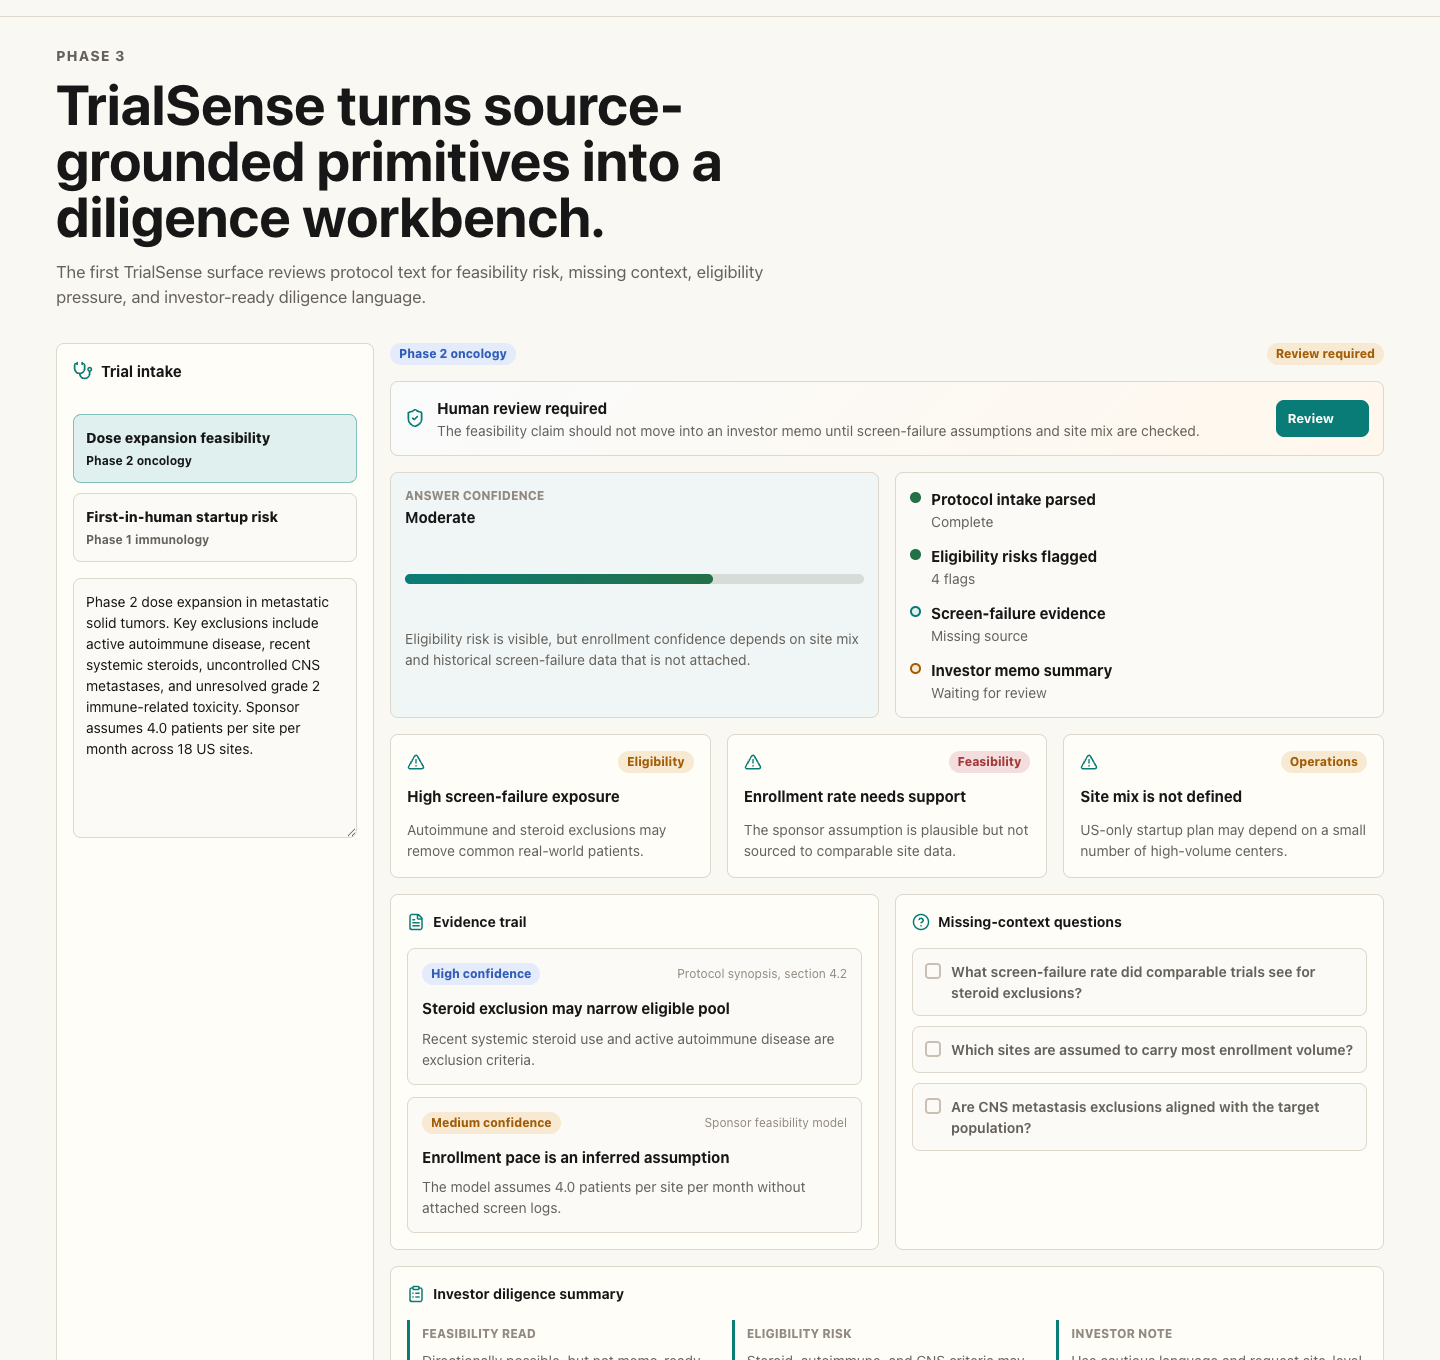
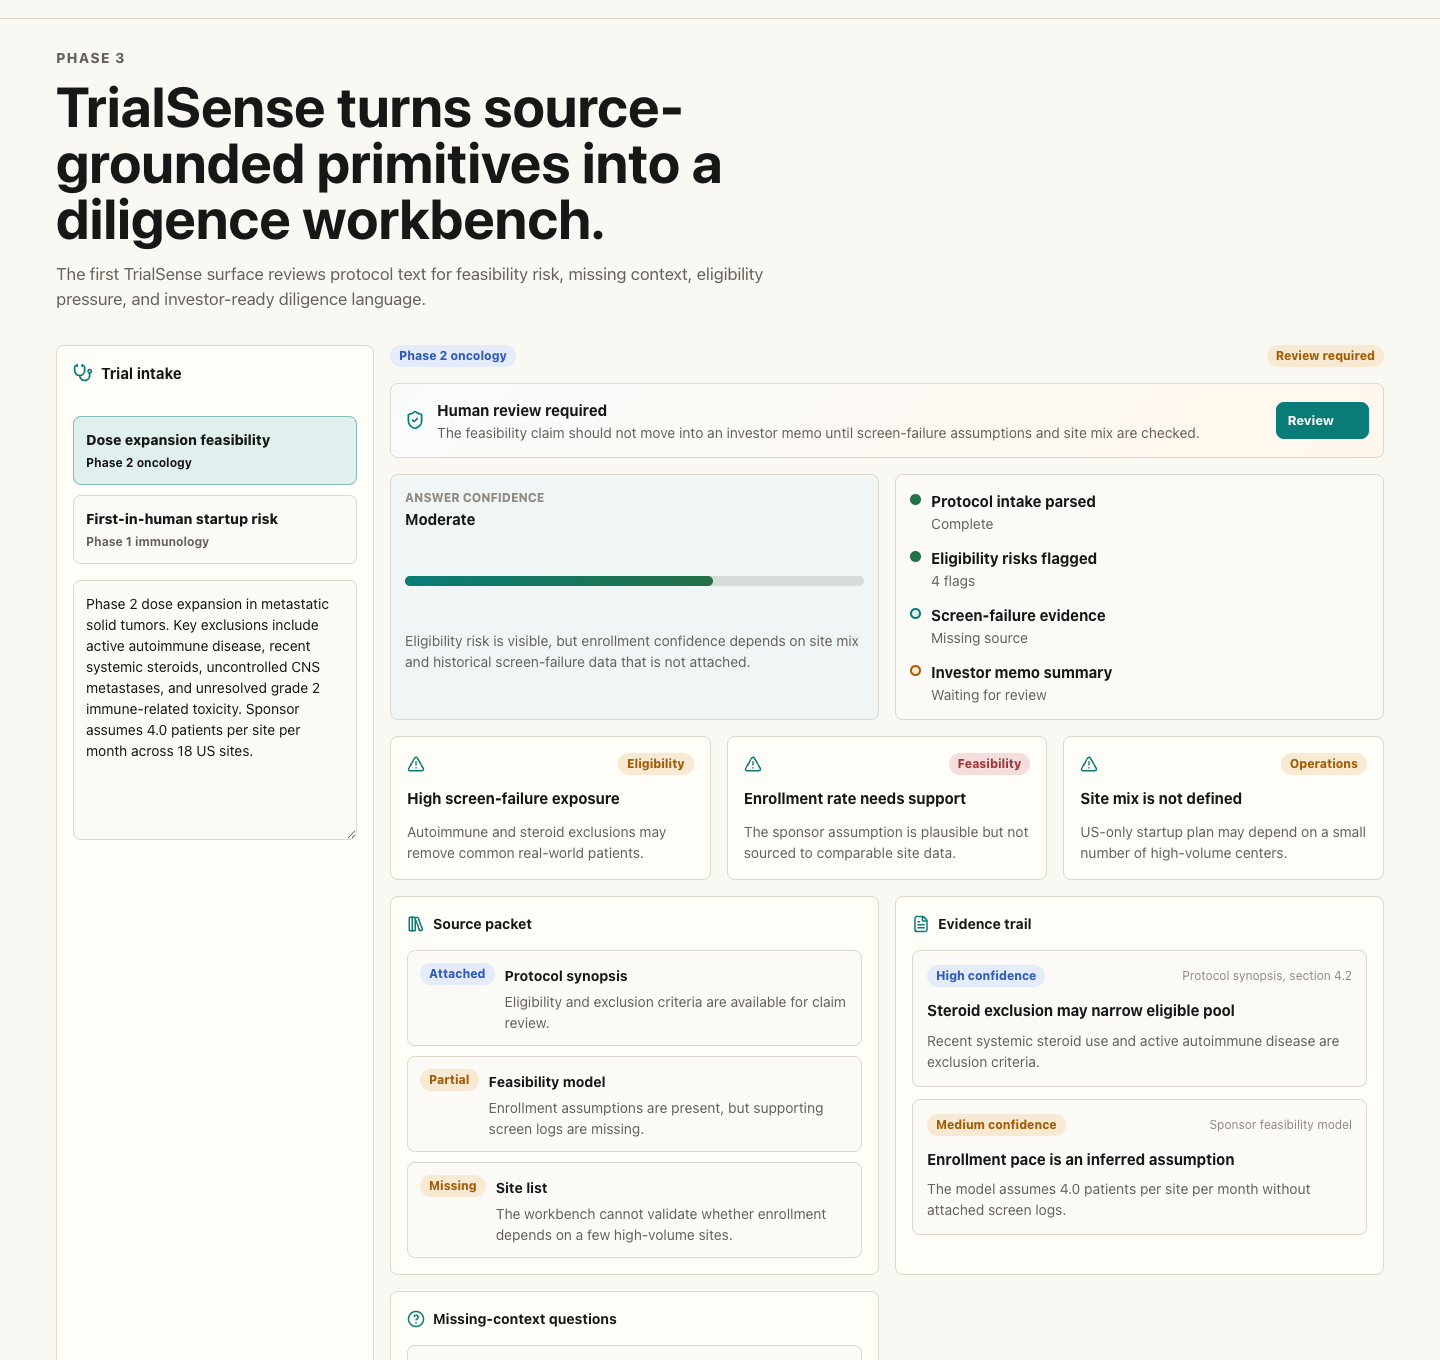
Complete TrialSense phase three

diff --git a/frontend/src/sections/TrialSenseSection.tsx b/frontend/src/sections/TrialSenseSection.tsx
@@ -2,8 +2,10 @@ import { useState } from 'react'
 import {
   AlertTriangle,
   ClipboardList,
+  Download,
   FileText,
   HelpCircle,
+  LibraryBig,
   Stethoscope,
 } from 'lucide-react'
 import { AgentTimeline } from '../components/AgentTimeline'
@@ -17,7 +19,41 @@ import { trialSenseCases } from '../data/trialSenseContent'
 export function TrialSenseSection() {
   const [activeCaseIndex, setActiveCaseIndex] = useState(0)
   const [answeredQuestions, setAnsweredQuestions] = useState<string[]>([])
+  const [summaryStatus, setSummaryStatus] = useState('Draft summary')
   const activeCase = trialSenseCases[activeCaseIndex]
+  const summaryText = [
+    'TrialSense diligence summary',
+    `Case: ${activeCase.title}`,
+    `Phase: ${activeCase.phase}`,
+    `Status: ${activeCase.status}`,
+    `Confidence: ${activeCase.confidenceLabel} (${activeCase.confidenceValue}%)`,
+    '',
+    'Summary',
+    ...activeCase.summaryRows.map(([label, value]) => `${label}: ${value}`),
+    '',
+    'Risk flags',
+    ...activeCase.riskFlags.map(
+      ([category, title, body]) => `${category} - ${title}: ${body}`,
+    ),
+    '',
+    'Open questions',
+    ...activeCase.questions.map((question) =>
+      answeredQuestions.includes(question)
+        ? `[answered] ${question}`
+        : `[open] ${question}`,
+    ),
+    '',
+    'Source packet',
+    ...activeCase.sourcePacket.map(
+      ([label, status, detail]) => `${label} (${status}): ${detail}`,
+    ),
+  ].join('\n')
+  const summaryHref = `data:text/plain;charset=utf-8,${encodeURIComponent(
+    summaryText,
+  )}`
+  const summaryFilename = `trialsense-${activeCase.title
+    .toLowerCase()
+    .replaceAll(' ', '-')}.txt`
 
   function toggleQuestion(question: string) {
     setAnsweredQuestions((currentQuestions) =>
@@ -25,6 +61,7 @@ export function TrialSenseSection() {
         ? currentQuestions.filter((item) => item !== question)
         : [...currentQuestions, question],
     )
+    setSummaryStatus('Draft summary')
   }
 
   return (
@@ -49,6 +86,7 @@ export function TrialSenseSection() {
                 onClick={() => {
                   setActiveCaseIndex(index)
                   setAnsweredQuestions([])
+                  setSummaryStatus('Draft summary')
                 }}
                 type="button"
               >
@@ -101,6 +139,24 @@ export function TrialSenseSection() {
           <div className="trial-evidence-layout">
             <div className="trial-panel">
               <div className="studio-panel-heading">
+                <LibraryBig size={18} />
+                <strong>Source packet</strong>
+              </div>
+              <div className="source-packet-list">
+                {activeCase.sourcePacket.map(([label, status, detail, tone]) => (
+                  <div className="source-packet-row" key={label}>
+                    <SignalBadge tone={tone}>{status}</SignalBadge>
+                    <div>
+                      <strong>{label}</strong>
+                      <p>{detail}</p>
+                    </div>
+                  </div>
+                ))}
+              </div>
+            </div>
+
+            <div className="trial-panel">
+              <div className="studio-panel-heading">
                 <FileText size={18} />
                 <strong>Evidence trail</strong>
               </div>
@@ -144,6 +200,25 @@ export function TrialSenseSection() {
                   <p>{value}</p>
                 </div>
               ))}
+            </div>
+            <div className="summary-actions">
+              <button
+                className="report-button"
+                onClick={() => setSummaryStatus('Summary ready')}
+                type="button"
+              >
+                {summaryStatus}
+              </button>
+              {summaryStatus === 'Summary ready' ? (
+                <a
+                  className="download-link"
+                  download={summaryFilename}
+                  href={summaryHref}
+                >
+                  <Download size={15} />
+                  Download .txt
+                </a>
+              ) : null}
             </div>
           </div>
         </div>

diff --git a/frontend/src/data/trialSenseContent.ts b/frontend/src/data/trialSenseContent.ts
@@ -15,6 +15,7 @@ export type TrialSenseCase = {
   citations: readonly Citation[]
   riskFlags: readonly (readonly [string, string, string, 'warn' | 'danger' | 'evidence'])[]
   questions: readonly string[]
+  sourcePacket: readonly (readonly [string, string, string, 'evidence' | 'warn'])[]
   summaryRows: readonly (readonly [string, string])[]
 }
 
@@ -81,6 +82,26 @@ export const trialSenseCases = [
       'What screen-failure rate did comparable trials see for steroid exclusions?',
       'Which sites are assumed to carry most enrollment volume?',
       'Are CNS metastasis exclusions aligned with the target population?',
+    ],
+    sourcePacket: [
+      [
+        'Protocol synopsis',
+        'Attached',
+        'Eligibility and exclusion criteria are available for claim review.',
+        'evidence',
+      ],
+      [
+        'Feasibility model',
+        'Partial',
+        'Enrollment assumptions are present, but supporting screen logs are missing.',
+        'warn',
+      ],
+      [
+        'Site list',
+        'Missing',
+        'The workbench cannot validate whether enrollment depends on a few high-volume sites.',
+        'warn',
+      ],
     ],
     summaryRows: [
       [
@@ -159,6 +180,26 @@ export const trialSenseCases = [
       'What IRB timing did comparable first-in-human trials experience?',
       'Will a safety committee review be required before escalation?',
       'Which sites can support inpatient observation for early cohorts?',
+    ],
+    sourcePacket: [
+      [
+        'Draft protocol',
+        'Attached',
+        'Sentinel dosing and inpatient monitoring requirements are available.',
+        'evidence',
+      ],
+      [
+        'Startup timeline',
+        'Partial',
+        'Rapid IRB timing is assumed without comparable precedent.',
+        'warn',
+      ],
+      [
+        'Safety governance history',
+        'Missing',
+        'Escalation review expectations need source support before memo use.',
+        'warn',
+      ],
     ],
     summaryRows: [
       [

diff --git a/frontend/src/App.css b/frontend/src/App.css
@@ -1134,6 +1134,33 @@ main {
   background: var(--green);
 }
 
+.source-packet-list {
+  display: grid;
+  gap: 10px;
+}
+
+.source-packet-row {
+  display: grid;
+  grid-template-columns: auto 1fr;
+  align-items: start;
+  gap: 10px;
+  border: 1px solid var(--line);
+  border-radius: var(--radius);
+  padding: 12px;
+  background: #fbfaf6;
+}
+
+.source-packet-row strong {
+  color: var(--ink);
+  font-size: 14px;
+}
+
+.source-packet-row p {
+  margin-top: 4px;
+  color: var(--muted);
+  font-size: 14px;
+}
+
 .summary-rows {
   display: grid;
   grid-template-columns: repeat(3, minmax(0, 1fr));
@@ -1154,6 +1181,13 @@ main {
 
 .summary-row p {
   margin-top: 6px;
+}
+
+.summary-actions {
+  display: flex;
+  align-items: center;
+  flex-wrap: wrap;
+  gap: 10px;
 }
 
 .case-study-grid {

diff --git a/README.md b/README.md
@@ -38,6 +38,10 @@ The demo is deployed from `frontend/` through GitHub Actions and GitHub Pages.
 
 ![TrialSense clinical diligence workbench](docs/assets/screenshots/trialsense.png)
 
+### Mobile TrialSense
+
+![Mobile view of TrialSense](docs/assets/screenshots/mobile-trialsense.png)
+
 ### Mobile hero
 
 ![Mobile view of the Human-AI Design System hero](docs/assets/screenshots/mobile-hero.png)
@@ -75,7 +79,7 @@ This project turns those trust decisions into reusable coded components. The sam
 - Reusable components for evidence, uncertainty, feedback, evals, prompt history, response comparison, agent progress, and human review.
 - A scenario library showing how the same primitives adapt across clinical diligence, model-behavior review, and research synthesis.
 - A Phase 2 Model Behavior Studio surface for comparing, scoring, and tuning candidate AI responses.
-- A first Phase 3 TrialSense surface for clinical-trial feasibility and diligence review.
+- A Phase 3 TrialSense surface for clinical-trial feasibility and diligence review.
 - An interactive hero scenario switcher that previews the system in multiple workflow contexts.
 - A system-specs section that defines component jobs, state models, and reuse paths.
 - A visual inventory that shows component states before they are reused in larger product screens.
@@ -140,7 +144,7 @@ GitHub Actions also runs frontend lint and build checks on pushes and pull reque
 
 ## Status
 
-The current repo contains a working frontend prototype, project documentation, CI, and a GitHub Pages deployment workflow that publishes the built app to the `gh-pages` branch. Phase 1 and Phase 2 frontend baselines are complete, and Phase 3 has started with the first TrialSense workflow. There is no backend service yet; the `backend/` folder is intentionally reserved so the repository stays organized as the project grows.
+The current repo contains a working frontend prototype, project documentation, CI, and a GitHub Pages deployment workflow that publishes the built app to the `gh-pages` branch. Phase 1, Phase 2, and Phase 3 frontend baselines are complete. There is no backend service yet; the `backend/` folder is intentionally reserved so the repository stays organized as the project grows.
 
 ## Documentation
 

diff --git a/docs/trialsense.md b/docs/trialsense.md
@@ -12,9 +12,11 @@ It includes:
 - Eligibility, feasibility, operations, startup, monitoring, and evidence risk flags.
 - Confidence scoring tied to source completeness.
 - Agent activity timeline for the diligence review flow.
+- Fuller source packet view for attached, partial, and missing diligence inputs.
 - Evidence trail using source citation cards.
 - Missing-context questions with reviewer checkoff state.
 - Investor diligence summary with feasibility, eligibility, and investor note rows.
+- Downloadable `.txt` diligence summary output for the active trial case.
 - Human review gate for claims that should not move into memo language yet.
 
 ## Product Intent
@@ -29,13 +31,11 @@ TrialSense is meant to show domain-specific AI product judgment. The interface m
 
 ## Current Backend Decision
 
-No backend is needed for the first TrialSense portfolio baseline. Static fixtures are enough to demonstrate the diligence workflow, state model, and reuse of the Phase 1 primitives.
+No backend is needed for the current TrialSense portfolio baseline. Static fixtures, local UI state, and a downloadable text artifact are enough to demonstrate the diligence workflow, state model, and reuse of the Phase 1 primitives.
 
 The reserved `backend/` folder should remain available for future trial document upload, source parsing, saved diligence reviews, or model-provider integration.
 
-## Next Phase 3 Work
+## Future Phase 3 Polish
 
-- Add downloadable diligence summary output.
-- Add a fuller trial source packet view.
-- Add mobile README screenshot once the surface settles.
+- Refresh screenshots when TrialSense changes.
 - Add persistence only if saved review history becomes part of the product story.

diff --git a/docs/case-study.md b/docs/case-study.md
@@ -45,7 +45,7 @@ The example content uses clinical-trial diligence scenarios because they connect
 
 The Phase 2 Model Behavior Studio turns the component system into a product workflow. It shows how a reviewer can edit a behavior prompt, save a prompt version, compare candidate responses, choose the winning behavior, score the output, and generate a downloadable eval report. This demonstrates model-behavior judgment as an interface problem: the product is not only displaying AI output, it is helping a human decide which behavior should be trusted, tuned, or blocked.
 
-The Phase 3 TrialSense baseline applies the same primitives to clinical-trial diligence. It translates protocol intake into feasibility risk, eligibility pressure, missing-context questions, source-backed evidence, and investor-readable summary language.
+The Phase 3 TrialSense baseline applies the same primitives to clinical-trial diligence. It translates protocol intake into feasibility risk, eligibility pressure, missing-context questions, source-backed evidence, source packet completeness, downloadable diligence output, and investor-readable summary language.
 
 ## What This Demonstrates
 
@@ -60,6 +60,5 @@ The Phase 3 TrialSense baseline applies the same primitives to clinical-trial di
 
 ## Next Iterations
 
-- Expand TrialSense with downloadable diligence output.
-- Add a fuller source packet view for clinical-trial review.
-- Decide whether saved TrialSense review history needs backend persistence.
+- Refresh screenshots when product surfaces change.
+- Add persistence only if saved TrialSense review history becomes part of the product story.

diff --git a/docs/roadmap.md b/docs/roadmap.md
@@ -66,7 +66,7 @@ Future Phase 2 polish:
 
 ## Phase 3: TrialSense
 
-Status: in progress
+Status: complete
 
 Goal: create a clinical-trial diligence workbench grounded in source evidence and operational risk.
 
@@ -86,13 +86,15 @@ Completed so far:
 - Investor-style diligence summary
 - Evidence trail with source citations
 - Human review gate for unsupported feasibility claims
+- Fuller trial source packet view
+- Downloadable `.txt` diligence summary output
+- Mobile README screenshot
+- Backend decision: no backend required for this portfolio baseline
 
-Remaining Phase 3 work:
+Future Phase 3 polish:
 
-- Add downloadable diligence summary output.
-- Add a fuller trial source packet view.
-- Add mobile README screenshot once the surface settles.
-- Decide whether saved review history needs backend persistence.
+- Refresh screenshots when TrialSense changes.
+- Add persistence only if saved review history becomes important enough to justify backend scope.
 
 ## Repository Rules
 
